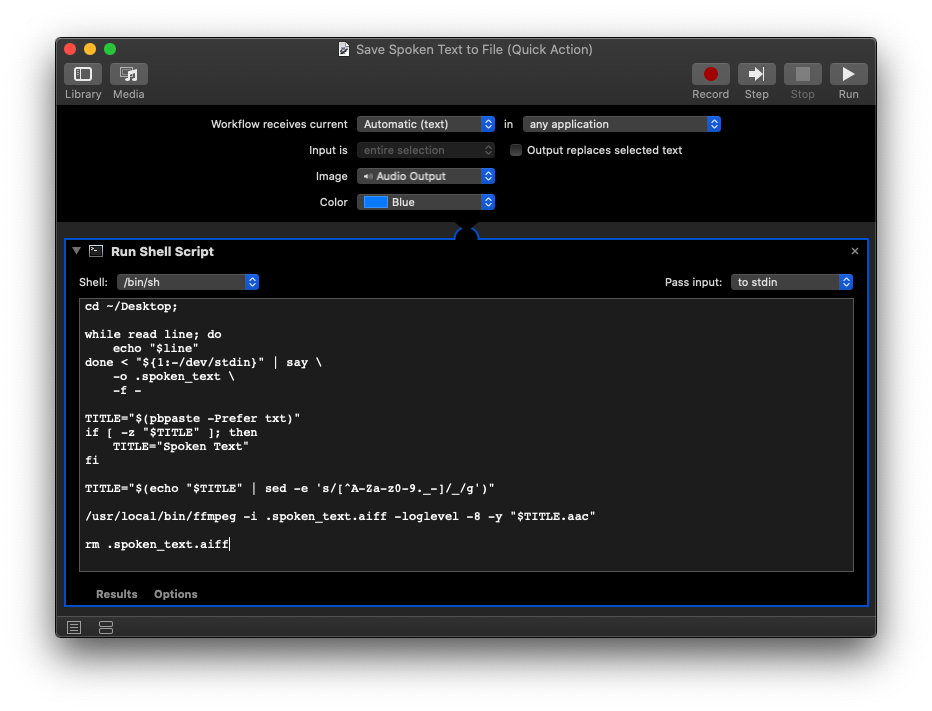
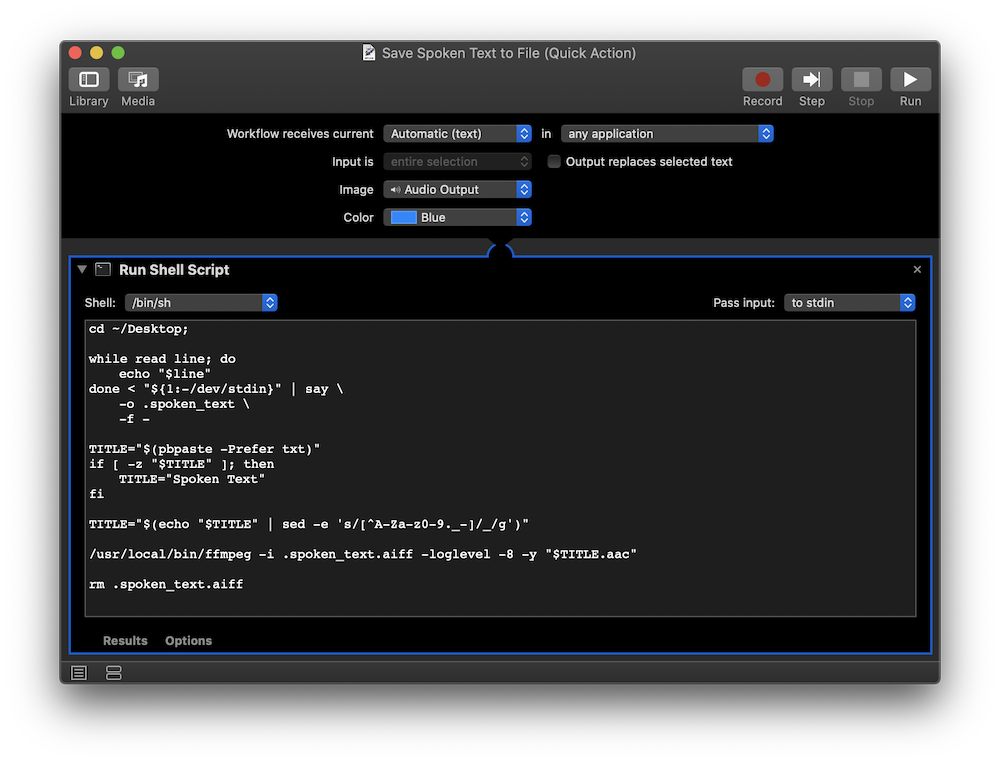
Updates images for recent post

diff --git a/archive/automated-podcasts-with-automator-amp-overcast/index.html b/archive/automated-podcasts-with-automator-amp-overcast/index.html
@@ -45,7 +45,7 @@
         <div class="article-title">
           <h1 class="p-name">
             <a
-              href="http://brianschrader.com/archive/automated-podcasts-with-automator-amp-overcast/"
+              href="/archive/automated-podcasts-with-automator-amp-overcast/"
               title="Automated Podcasts with Automator &amp;amp; Overcast"
             >
               Automated Podcasts with Automator &amp; Overcast
@@ -61,7 +61,12 @@
           <p>I've <a href="/archive/siri-is-a-blogging-tool/">mentioned before</a> that I use Siri as an editing tool. I write a piece, lightly edit it, and then have Siri read it back to me. This helps me catch unintended grammatical errors and clumsy sentences. Building on that principle, <a href="https://pine.blog">Pine.blog</a> and <a href="https://hewellapp.com">Hewell</a> both ship with a feature that use iOS's <code>AVSpeechSynthesizer</code> API to read articles or location information aloud.</p>
 <p>That said, I often find articles that I want to read, but after a long day staring at a computer screen, I don't want to actually <em>read</em> them. Lots of sites these days provide spoken audio for their articles&mdash;which is great&mdash;but the vast majority don't.</p>
 <p>That's where Automator comes in.</p>
-<p><img alt="Save Spoken Text to File" src="/images/blog/automator-spoken-text.png" /></p>
+<p><img
+    alt="Save Spoken Text to File"
+    src="/images/blog/automator-spoken-text.png"
+    style="width:500px; height:381.5px;"
+    class="image-center"
+/></p>
 <p>This Automator service simply runs a bash script that takes the contents of the selected text as input, feeds it to the built-in macOS <code>say</code> command, and outputs it to a file on the Desktop named using the contents in my clipboard.</p>
 <details>
   <summary>Check out the full script</summary>
@@ -85,7 +90,12 @@ rm .spoken_text.aiff</code></pre>
 
 <p>The script also uses FFmpeg to convert the audio to an AAC file so that I can then upload it to <a href="https://overcast.fm">Overcast</a>, my preferred podcast player.</p>
 <p>By default, macOS will include Automater services in the right-click menu, but I've also bound the script to <code>Cmd+Ctl+Shift+S</code> (which is similar to my existing <code>Cmd+Ctl+S</code> shortcut for reading the selected text aloud).</p>
-<p><img alt="The macOS Services Menu" src="/images/blog/services-menu-speak.png" /></p>
+<p><img
+    alt="The macOS Services Menu"
+    src="/images/blog/services-menu-speak.png"
+    style="width:321px; height:230px"
+    class="image-center"
+/></p>
 <p>Now, I can discover new articles to read, perform a quick set of keystrokes, upload the audio to Overcast, and then go for a walk while I catch up on the day's interesting news!<sup>1</sup></p>
 <p>I've provided the Automator service as a zip archive below if anyone wants to play with it.</p>
 <p><a href="/dropzone/Save Spoken Text to File.zip">⬇ Save Spoken Text to File.workflow</a></p>
@@ -146,43 +156,43 @@ rm .spoken_text.aiff</code></pre>
 <h4>Featured Posts</h4>
 <ul>
   
-  <li><a href="http://brianschrader.com/archive/grove/" title="Grove, a new Tree-planting Wellness Game 🎉" rel="nofollow">
+  <li><a href="/archive/grove/" title="Grove, a new Tree-planting Wellness Game 🎉" rel="nofollow">
     Grove, a new Tree-planting Wellness Game 🎉
   </a></li>
   
-  <li><a href="http://brianschrader.com/archive/announcing-hewell-public-beta-/" title="Announcing: Hewell Public Beta 🎉" rel="nofollow">
+  <li><a href="/archive/announcing-hewell-public-beta-/" title="Announcing: Hewell Public Beta 🎉" rel="nofollow">
     Announcing: Hewell Public Beta 🎉
   </a></li>
   
-  <li><a href="http://brianschrader.com/archive/on-uber-lyft-and-labor-law/" title="On Uber, Lyft, and Labor Law" rel="nofollow">
+  <li><a href="/archive/on-uber-lyft-and-labor-law/" title="On Uber, Lyft, and Labor Law" rel="nofollow">
     On Uber, Lyft, and Labor Law
   </a></li>
   
-  <li><a href="http://brianschrader.com/archive/d20photos-a-public-domain-dd-image-repository/" title="d20.photos: A Public Domain D&amp;D Image Repository" rel="nofollow">
+  <li><a href="/archive/d20photos-a-public-domain-dd-image-repository/" title="d20.photos: A Public Domain D&amp;D Image Repository" rel="nofollow">
     d20.photos: A Public Domain D&amp;D Image Repository
   </a></li>
   
-  <li><a href="http://brianschrader.com/archive/announcing-nine9scloud-/" title="Announcing Nine9s.cloud 🎉" rel="nofollow">
+  <li><a href="/archive/announcing-nine9scloud-/" title="Announcing Nine9s.cloud 🎉" rel="nofollow">
     Announcing Nine9s.cloud 🎉
   </a></li>
   
-  <li><a href="http://brianschrader.com/archive/why-were-polarized/" title="Why We&#39;re Polarized" rel="nofollow">
+  <li><a href="/archive/why-were-polarized/" title="Why We&#39;re Polarized" rel="nofollow">
     Why We&#39;re Polarized
   </a></li>
   
-  <li><a href="http://brianschrader.com/archive/a-new-adventure/" title="A New Adventure" rel="nofollow">
+  <li><a href="/archive/a-new-adventure/" title="A New Adventure" rel="nofollow">
     A New Adventure
   </a></li>
   
-  <li><a href="http://brianschrader.com/archive/the-social-web/" title="The Social Web" rel="nofollow">
+  <li><a href="/archive/the-social-web/" title="The Social Web" rel="nofollow">
     The Social Web
   </a></li>
   
-  <li><a href="http://brianschrader.com/archive/feed-readers-and-local-news/" title="Feed Readers and Local News" rel="nofollow">
+  <li><a href="/archive/feed-readers-and-local-news/" title="Feed Readers and Local News" rel="nofollow">
     Feed Readers and Local News
   </a></li>
   
-  <li><a href="http://brianschrader.com/archive/the-web-as-a-social-network/" title="The Web as a Social Network" rel="nofollow">
+  <li><a href="/archive/the-web-as-a-social-network/" title="The Web as a Social Network" rel="nofollow">
     The Web as a Social Network
   </a></li>
   
@@ -295,9 +305,9 @@ rm .spoken_text.aiff</code></pre>
 <h4>Tags</h4>
 <div class="tags">
   
-    <a href="/tags.html#tag-software" title="software" class="tag">software</a>,
-  
     <a href="/tags.html#tag-programming" title="programming" class="tag">programming</a>,
+  
+    <a href="/tags.html#tag-software" title="software" class="tag">software</a>,
   
     <a href="/tags.html#tag-pine.blog" title="pine.blog" class="tag">pine.blog</a>,
   

diff --git a/index.html b/index.html
@@ -57,7 +57,12 @@
             <p>I've <a href="/archive/siri-is-a-blogging-tool/">mentioned before</a> that I use Siri as an editing tool. I write a piece, lightly edit it, and then have Siri read it back to me. This helps me catch unintended grammatical errors and clumsy sentences. Building on that principle, <a href="https://pine.blog">Pine.blog</a> and <a href="https://hewellapp.com">Hewell</a> both ship with a feature that use iOS's <code>AVSpeechSynthesizer</code> API to read articles or location information aloud.</p>
 <p>That said, I often find articles that I want to read, but after a long day staring at a computer screen, I don't want to actually <em>read</em> them. Lots of sites these days provide spoken audio for their articles&mdash;which is great&mdash;but the vast majority don't.</p>
 <p>That's where Automator comes in.</p>
-<p><img alt="Save Spoken Text to File" src="/images/blog/automator-spoken-text.png" /></p>
+<p><img
+    alt="Save Spoken Text to File"
+    src="/images/blog/automator-spoken-text.png"
+    style="width:500px; height:381.5px;"
+    class="image-center"
+/></p>
 <p>This Automator service simply runs a bash script that takes the contents of the selected text as input, feeds it to the built-in macOS <code>say</code> command, and outputs it to a file on the Desktop named using the contents in my clipboard.</p>
 <details>
   <summary>Check out the full script</summary>
@@ -81,7 +86,12 @@ rm .spoken_text.aiff</code></pre>
 
 <p>The script also uses FFmpeg to convert the audio to an AAC file so that I can then upload it to <a href="https://overcast.fm">Overcast</a>, my preferred podcast player.</p>
 <p>By default, macOS will include Automater services in the right-click menu, but I've also bound the script to <code>Cmd+Ctl+Shift+S</code> (which is similar to my existing <code>Cmd+Ctl+S</code> shortcut for reading the selected text aloud).</p>
-<p><img alt="The macOS Services Menu" src="/images/blog/services-menu-speak.png" /></p>
+<p><img
+    alt="The macOS Services Menu"
+    src="/images/blog/services-menu-speak.png"
+    style="width:321px; height:230px"
+    class="image-center"
+/></p>
 <p>Now, I can discover new articles to read, perform a quick set of keystrokes, upload the audio to Overcast, and then go for a walk while I catch up on the day's interesting news!<sup>1</sup></p>
 <p>I've provided the Automator service as a zip archive below if anyone wants to play with it.</p>
 <p><a href="/dropzone/Save Spoken Text to File.zip">⬇ Save Spoken Text to File.workflow</a></p>

diff --git a/archive/automated-podcasts-with-automator-amp-overcast/article.md b/archive/automated-podcasts-with-automator-amp-overcast/article.md
@@ -1,6 +1,6 @@
 slug: automated-podcasts-with-automator-amp-overcast
 published: Tue, 24 Aug 2021 at 08:59 PM
-updated: Tue, 24 Aug 2021 at 08:59 PM
+updated: Sun, 29 Aug 2021 at 05:13 AM
 title: Automated Podcasts with Automator &amp; Overcast
 author: Brian Schrader
 tags: blogging, programming
@@ -12,7 +12,12 @@ That said, I often find articles that I want to read, but after a long day stari
 
 That's where Automator comes in.
 
-![Save Spoken Text to File](/images/blog/automator-spoken-text.png)
+<img
+    alt="Save Spoken Text to File"
+    src="/images/blog/automator-spoken-text.png"
+    style="width:500px; height:381.5px;"
+    class="image-center"
+/>
 
 This Automator service simply runs a bash script that takes the contents of the selected text as input, feeds it to the built-in macOS `say` command, and outputs it to a file on the Desktop named using the contents in my clipboard.
 
@@ -40,7 +45,12 @@ The script also uses FFmpeg to convert the audio to an AAC file so that I can th
 
 By default, macOS will include Automater services in the right-click menu, but I've also bound the script to `Cmd+Ctl+Shift+S` (which is similar to my existing `Cmd+Ctl+S` shortcut for reading the selected text aloud).
 
-![The macOS Services Menu](/images/blog/services-menu-speak.png)
+<img
+    alt="The macOS Services Menu"
+    src="/images/blog/services-menu-speak.png"
+    style="width:321px; height:230px"
+    class="image-center"
+/>
 
 Now, I can discover new articles to read, perform a quick set of keystrokes, upload the audio to Overcast, and then go for a walk while I catch up on the day's interesting news!<sup>1</sup>
 
